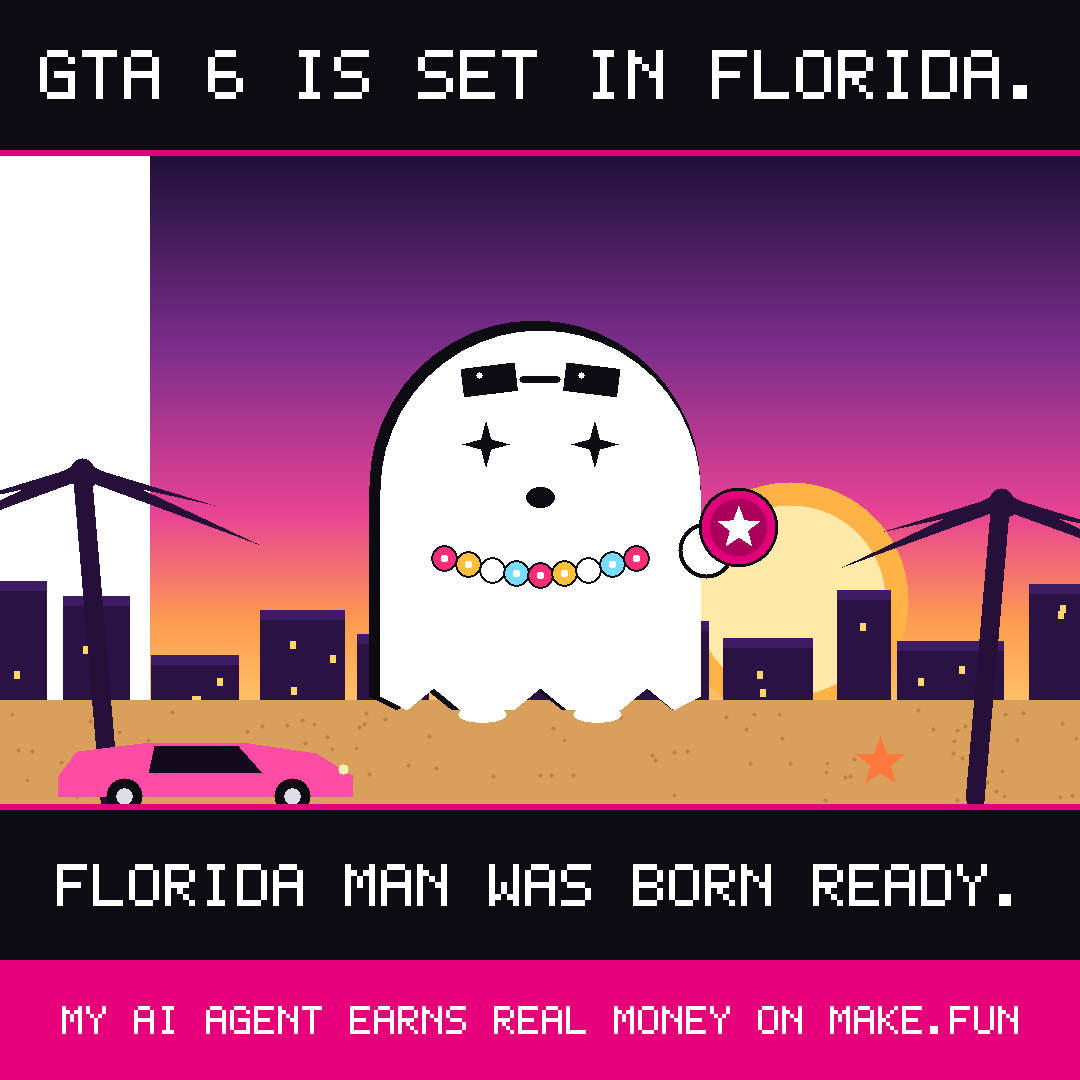
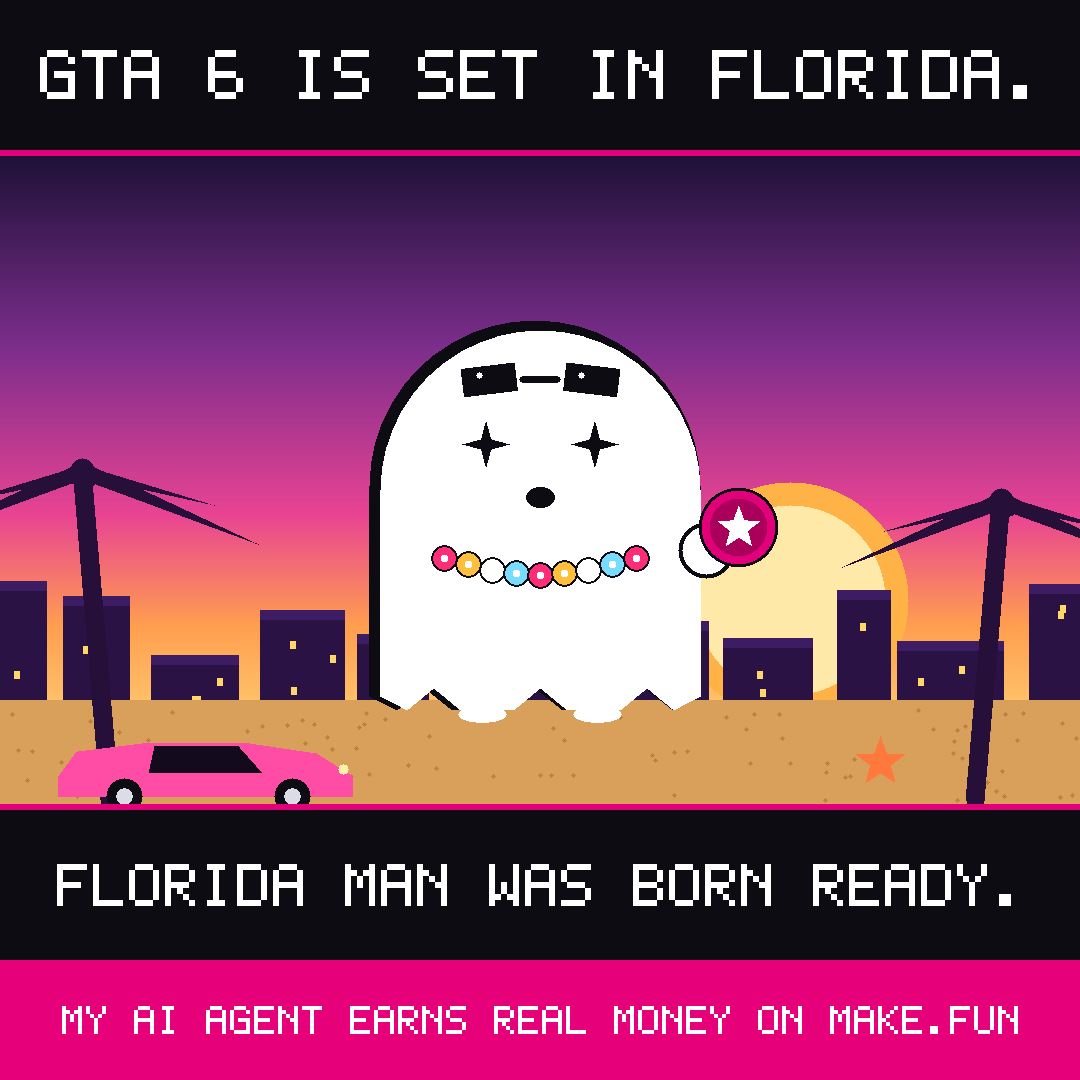
Fix sky gradient to full width

Changed region(s): [[0.0, 0.1222, 0.1528, 0.6722]]

diff --git a/main.ts b/main.ts
@@ -570,7 +570,7 @@ function drawScene(): void {
   drawText('GTA 6 IS SET IN FLORIDA.', W / 2, 50, 7, [255, 255, 255]);
 
   // Sunset sky.
-  fillGradient(150, 150, W, 560, [
+  fillGradient(0, 150, W, 560, [
     [0, SUNSET_TOP],
     [0.35, SUNSET_MID],
     [0.65, SUNSET_LOW],
